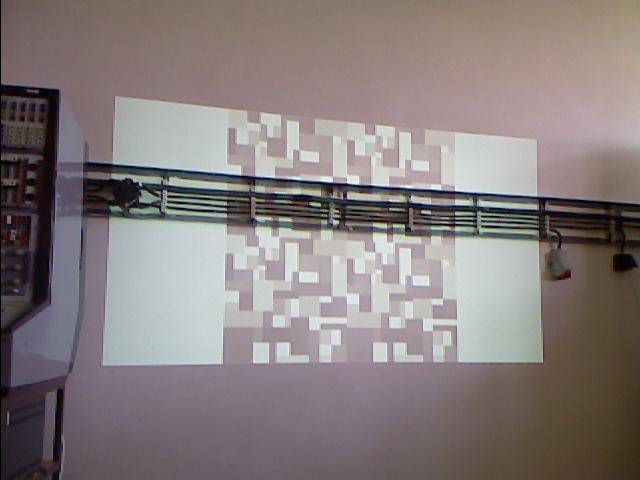
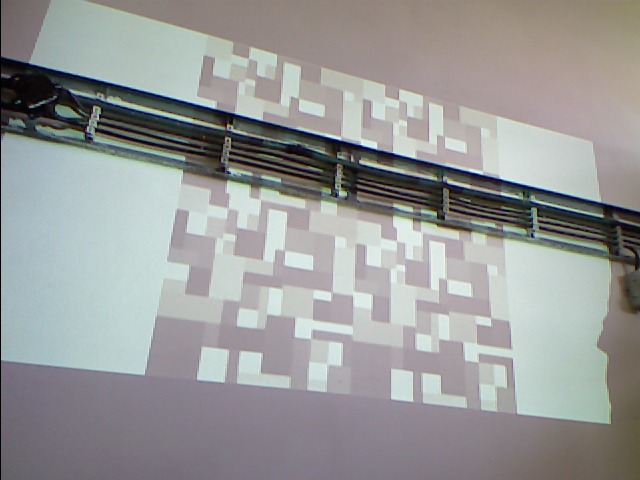
posledni upravy, prepocet souradnic

diff --git a/sledovani.py b/sledovani.py
@@ -248,8 +248,8 @@ class KinectClientProtocol(WebSocketClientProtocol):
         
         scale =  im_res /sk_res
         
-        a1 = np.array([320,320])
-        a2 = np.array([0.4, 0.4])
+        a1 = np.array([378,320])
+        a2 = np.array([0.37, 0.4])
         
         #a1 = sk_res*0.5
         #a2 = scale

diff --git a/config.py b/config.py
@@ -11,7 +11,7 @@ min_count_of_matches = 10
 
 """ sledovani """
 kinect_server_adress = "ws://192.168.1.100:9002"
-LOOP_TIME = 0.5
+LOOP_TIME = 0.15
 window_width = 1500
 window_height = 900
 background = "black.png"
